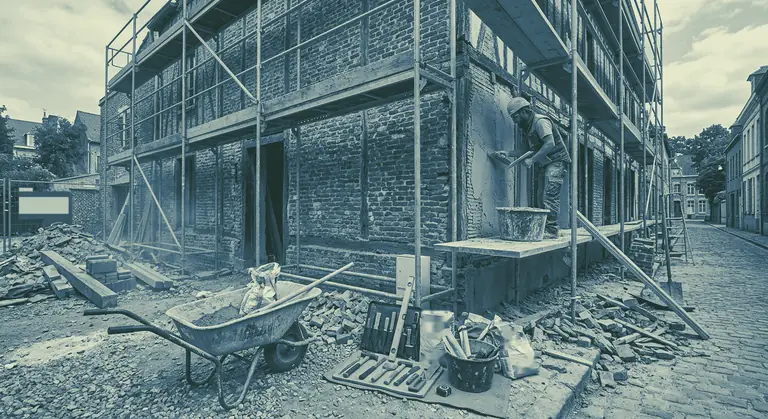
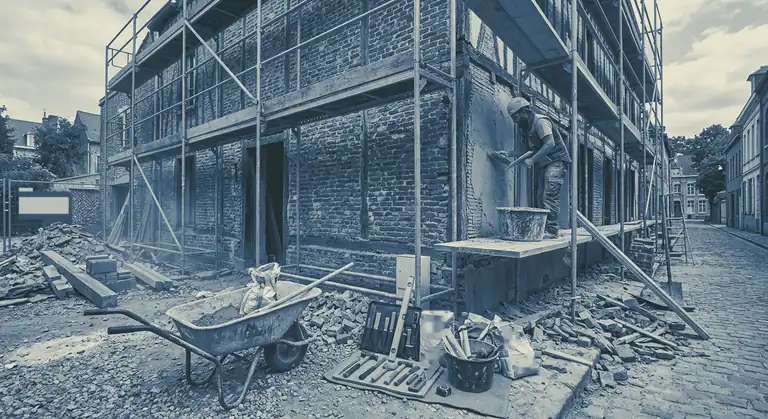
fix(design): photos d'ATLAS et de MARTEL dans leurs nouvelles teintes ; rendez-vous sans « Rien à acheter »
- conseil.webp et batiment.webp (et leurs -768) retraités depuis les sources
  gommées avec le même traitement (duotone marine, teinte du métier à 16 %),
  dans le glacier #12f8fe et le sable #b6b262 du lot P6 : le voile vert
  qu'elles gardaient ne correspondait plus à leur métier.
- /rendez-vous, 3e étape : « Rien à acheter » contredisait la licence
  établissement annoncée sur la vitrine ; elle dit désormais qu'on indique la
  licence qui convient à l'établissement.

Claude-Session: https://claude.ai/code/session_01L5mCiYtruo2g7r6qPvxrmZ

Changed region(s): [[0.4062, 0.6516, 0.4375, 0.6826]]

diff --git a/src/app/rendez-vous/page.tsx b/src/app/rendez-vous/page.tsx
@@ -30,7 +30,10 @@ const ETAPES = [
   },
   {
     titre: "Vous repartez avec un réglage",
-    texte: "Une entreprise, un niveau, une durée, et souvent un atelier prêt à animer. Rien à acheter, rien à installer.",
+    // La ligne de la vitrine parle désormais de licence établissement : cette
+    // étape disait « Rien à acheter », ce qui la contredisait.
+    texte:
+      "Une entreprise, un niveau, une durée, et souvent un atelier prêt à animer. Nous vous indiquons la licence qui convient à votre établissement ; rien à installer.",
   },
 ];
 
